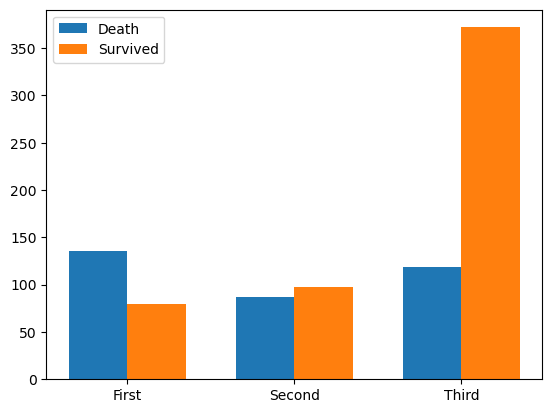
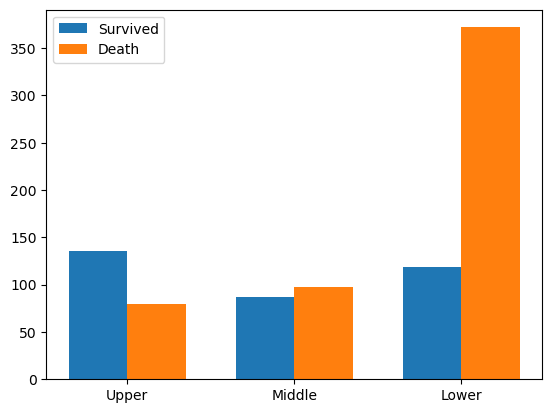
Gender bar chart

diff --git a/code/titanic.py b/code/titanic.py
@@ -88,8 +88,8 @@ width = 0.35         # the width of the bars
 p1 = ax.bar(ind, survivalTotals, width, bottom=0)
 p2 =  ax.bar(ind+width, deathTotals, width, bottom=0)
 ax.set_xticks(ind + width / 2)
-ax.set_xticklabels(('First', 'Second', 'Third'))
-ax.legend((p1[0], p2[0]), ('Death', 'Survived'))
+ax.set_xticklabels(('Upper', 'Middle', 'Lower'))
+ax.legend((p1[0], p2[0]), ('Survived', 'Death'))
 
 # Save plot
 filePath='..//plots//titanic//'
@@ -97,5 +97,45 @@ fileDir = os.path.dirname(os.path.realpath('__file__'))
 plotPath = os.path.join(fileDir, filePath) #'../data/test.csv')
 plotPath = os.path.abspath(os.path.realpath(plotPath))
 plotName = 'ClassSurvivalBarChart.png'
+plt.savefig(os.path.join(plotPath, plotName), bbox_inches='tight')
+plt.show()
+
+genderData=df['Sex']
+maleDeath=0
+maleSurvived=0
+femaleDeath=0
+femaleSurvived=0
+for i, entry in enumerate(genderData):
+    if entry == 'male':
+        if survivalData.loc[i] == 0:
+            maleDeath+=1
+        elif survivalData.loc[i] ==1:
+            maleSurvived+=1
+    elif entry == 'female':
+        if survivalData.loc[i] == 0:
+            femaleDeath+=1
+        elif survivalData.loc[i] ==1:
+            femaleSurvived+=1
+
+deathTotals = (maleDeath, femaleDeath)
+survivalTotals = (maleSurvived, femaleSurvived)
+
+# Barchart that shows #deaths & #survival per passenger class
+N=2
+fig, ax = plt.subplots()
+ind = np.arange(N)    # the x locations for the groups
+width = 0.35         # the width of the bars
+p1 = ax.bar(ind, survivalTotals, width, bottom=0)
+p2 =  ax.bar(ind+width, deathTotals, width, bottom=0)
+ax.set_xticks(ind + width / 2)
+ax.set_xticklabels(('Male', 'Female'))
+ax.legend((p1[0], p2[0]), ('Survived', 'Death'))
+
+# Save plot
+filePath='..//plots//titanic//'
+fileDir = os.path.dirname(os.path.realpath('__file__'))
+plotPath = os.path.join(fileDir, filePath) #'../data/test.csv')
+plotPath = os.path.abspath(os.path.realpath(plotPath))
+plotName = 'GenderSurvivalBarChart.png'
 plt.savefig(os.path.join(plotPath, plotName), bbox_inches='tight')
 plt.show()
